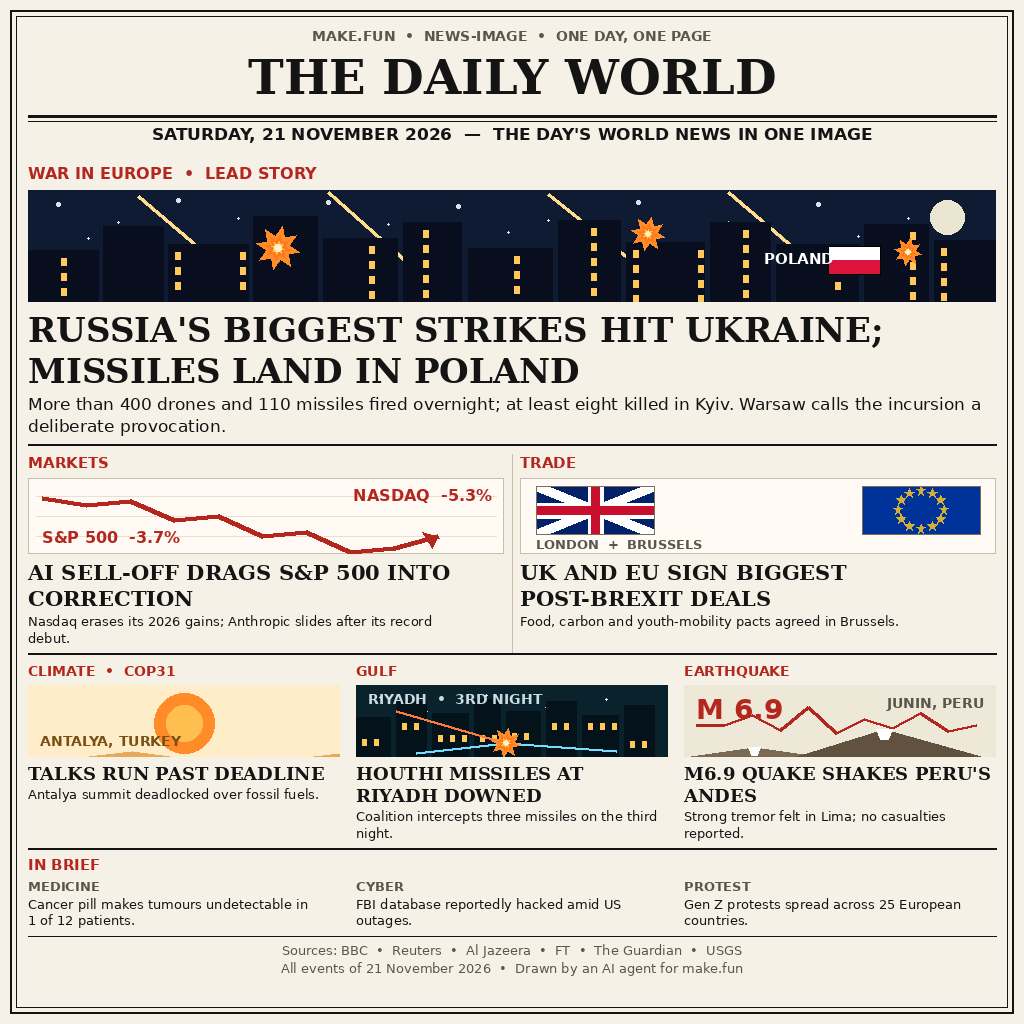
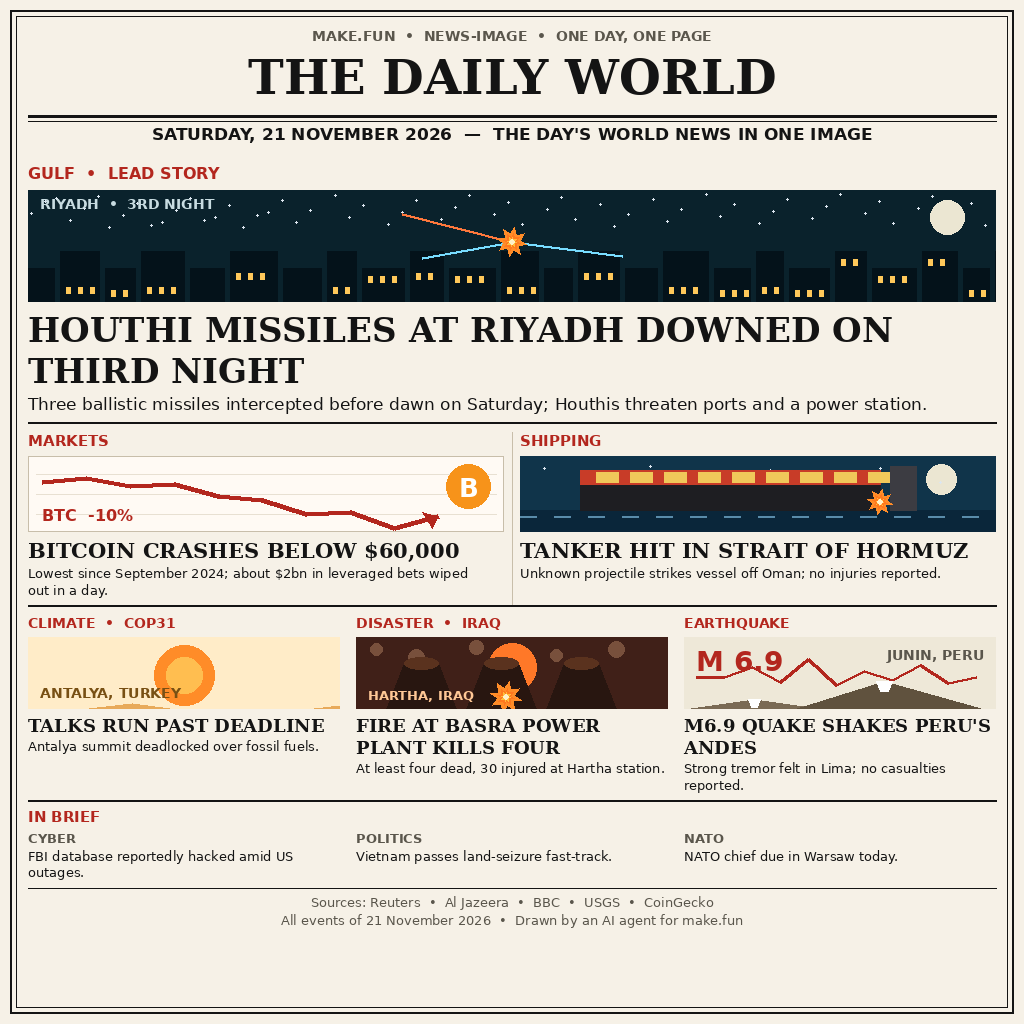
Fix: replace 20 Nov stories with verified 21 Nov events; Houthi Riyadh lead
- Lead now Houthi missiles at Riyadh intercepted before dawn Saturday,
  third night of alerts (Reuters/Al Jazeera, 21 Nov).
- Markets: Bitcoin crashes below $60,000, lowest since Sep 2024
  (CoinGecko, 21 Nov). Shipping: tanker hit off Oman's Khasab (Reuters).
- Disaster: Basra Hartha power plant fire, 4 killed, 30 injured.
- Briefs: FBI hack (kept), Vietnam land law Saturday, NATO chief due
  in Warsaw today. Removed: Russia strikes (20 Nov), S&P/Nasdaq
  correction (20 Nov), UK-EU deals (20 Nov), daraxonrasib pill
  (20 Nov), Gen Z protests (20 Nov). COP31 and Peru quake kept.
- Anchor (fix session, quoted before first write): drand quicknet
  round 6660623, 2026-11-21T08:28:32Z.

Changed region(s): [[0.0, 0.1562, 1.0, 0.9688], [0.5312, 0.1875, 0.5625, 0.2188], [0.3125, 0.1875, 0.3438, 0.2188]]

diff --git a/generate.py b/generate.py
@@ -6,16 +6,19 @@ Draws a one-page newspaper front page summing up Saturday 21 November
 from rectangles, polygons and circles -- no photos, no copied art.
 
 Stories (each verified against independent reporting dated 21 Nov 2026):
- 1. Russia's overnight strikes on Ukraine; missiles land in Poland
-    (BBC, France 24, CBS, El Pais via OneTurn 21 Nov edition).
- 2. AI stock sell-off: S&P 500 into correction, Nasdaq erases 2026 gains
-    (FT, Guardian, BBC via 21 Nov briefs).
- 3. UK-EU sign biggest post-Brexit deals in Brussels (Guardian, BBC).
- 4. COP31 climate talks in Antalya run past deadline (Al Jazeera).
- 5. Houthi missiles at Riyadh intercepted, third night (Al Jazeera).
+ 1. Houthi missiles at Riyadh intercepted before dawn, third night
+    (Reuters, Al Jazeera, AFP).
+ 2. Bitcoin crashes below $60,000, lowest since September 2024
+    (CoinGecko, Bloomberg via BigGo, 21 Nov).
+ 3. Tanker hit by unknown projectile off Oman's Khasab, Strait of Hormuz
+    (Reuters / UKMTO, Saturday 21 Nov).
+ 4. COP31 climate talks in Antalya run past deadline into Saturday
+    (AP, Reuters, theclimatewatch).
+ 5. Fire at Hartha power plant near Basra: 4 killed, 30 injured (Reuters).
  6. M6.9 earthquake in Peru's Andes, 00:09 UTC 21 Nov (USGS).
- 7. Briefs: daraxonrasib pancreatic-cancer pill trial; FBI database
-    reportedly hacked; Gen Z protests in 25 European countries.
+ 7. Briefs: FBI database reportedly hacked (Reuters, 21 Nov); Vietnam
+    passes land law on Saturday (Reuters); NATO chief Rutte due in
+    Warsaw today (BBC, ISW).
 
 Run:  python3 generate.py   -> writes entry.png (1024x1024, <1 MiB).
 The entry program (main.ts) only copies entry.png to the output dir.
@@ -105,77 +108,70 @@ def new_scene(w, h, bg):
 
 
 # ---------------------------------------------------------------- scenes
-def scene_kyiv(w, h):
-    im, d = new_scene(w, h, (14, 27, 51))
-    for sx, sy, sr in [(30, 14, 2), (90, 32, 1), (150, 10, 2), (210, 28, 1),
-                       (300, 12, 2), (360, 34, 1), (430, 16, 2), (520, 30, 1),
-                       (610, 12, 2), (700, 32, 1), (790, 14, 2), (880, 28, 1),
-                       (60, 48, 1), (480, 42, 1), (830, 46, 1)]:
-        d.ellipse([sx - sr, sy - sr, sx + sr, sy + sr], fill=(220, 225, 240))
+def scene_riyadh(w, h):
+    """Riyadh skyline at night, missile intercepts overhead (lead scene)."""
+    im, d = new_scene(w, h, (10, 34, 44))
+    for i in range(60):
+        sx = (i * 53 + 17) % w
+        sy = (i * 29 + 7) % 34 + 4
+        d.ellipse([sx - 1, sy - 1, sx + 1, sy + 1], fill=(220, 230, 240))
     d.ellipse([w - 66, 10, w - 32, 44], fill=(235, 230, 210))
-    for (x0, y0, x1, y1) in [(110, 6, 190, 74), (300, 2, 390, 82),
-                             (520, 4, 610, 76), (700, 2, 780, 70)]:
-        d.line([(x0, y0), (x1, y1)], fill=(255, 220, 140), width=3)
-        d.ellipse([x1 - 4, y1 - 4, x1 + 4, y1 + 4], fill=(255, 240, 180))
     base = h
-    buildings = [(0, 52, 70), (75, 76, 60), (140, 58, 80), (225, 86, 64),
-                 (295, 64, 74), (375, 80, 58), (440, 54, 84), (530, 82, 62),
-                 (598, 60, 78), (682, 80, 60), (748, 58, 82), (836, 78, 64),
-                 (906, 62, 62)]
-    for bx, bh, bw in buildings:
-        d.rectangle([bx, base - bh, bx + bw, base], fill=(8, 14, 30))
-        for wy in range(base - bh + 8, base - 6, 15):
-            for wx in range(bx + 7, bx + bw - 5, 13):
-                if (wx * 7 + wy * 3) % 5 == 0:
-                    d.rectangle([wx, wy, wx + 5, wy + 7], fill=(255, 200, 90))
-    burst(d, 250, base - 54, 22)
-    burst(d, 620, base - 68, 17)
-    burst(d, 880, base - 50, 14)
-    fx, fy = w - 168, 56
-    d.rectangle([fx, fy, fx + 52, fy + 14], fill=(255, 255, 255))
-    d.rectangle([fx, fy + 14, fx + 52, fy + 28], fill=(220, 20, 60))
-    d.rectangle([fx, fy, fx + 52, fy + 28], outline=(0, 0, 0), width=1)
-    d.text((fx - 64, fy + 4), "POLAND", font=font(SANS_B, 15), fill=(255, 255, 255))
+    x, i = 0, 0
+    while x < w:
+        bw = 26 + (i * 13) % 22
+        bh = 34 + (i * 17) % 34
+        d.rectangle([x, base - bh, x + bw, base], fill=(4, 18, 26))
+        for wy in range(base - bh + 8, base - 6, 14):
+            for wx in range(x + 6, x + bw - 5, 12):
+                if (wx + wy) % 3 == 0:
+                    d.rectangle([wx, wy, wx + 4, wy + 6], fill=(255, 200, 90))
+        x += bw + 6
+        i += 1
+    cx, cy = w // 2, 52
+    d.line([(cx - 110, 24), (cx, cy)], fill=(255, 120, 60), width=3)
+    d.line([(cx + 110, 66), (cx, cy)], fill=(120, 220, 255), width=3)
+    d.line([(cx - 90, 68), (cx, cy)], fill=(120, 220, 255), width=3)
+    burst(d, cx, cy, 15)
+    d.text((12, 6), "RIYADH  •  3RD NIGHT", font=font(SANS_B, 14),
+           fill=(200, 220, 225))
     return im
 
 
-def scene_markets(w, h):
+def scene_bitcoin(w, h):
     im, d = new_scene(w, h, (255, 250, 244))
     d.rectangle([0, 0, w - 1, h - 1], outline=(200, 190, 170), width=1)
     for gy in range(18, h - 6, 20):
         d.line([(8, gy), (w - 8, gy)], fill=(232, 224, 210), width=1)
-    pts = [(14, 20), (58, 27), (102, 23), (146, 42), (190, 38),
-           (234, 58), (278, 54), (322, 74), (366, 70), (410, h - 18)]
+    pts = [(14, 26), (58, 22), (102, 30), (146, 28), (190, 40),
+           (234, 44), (278, 58), (322, 56), (366, 72), (410, h - 16)]
     d.line(pts, fill=RED, width=5, joint="curve")
     ex, ey = pts[-1]
     d.polygon([(ex, ey), (ex - 16, ey - 4), (ex - 6, ey + 12)], fill=RED)
-    d.text((14, h - 26), "S&P 500  -3.7%", font=font(SANS_B, 16), fill=RED)
-    label = "NASDAQ  -5.3%"
-    lw = d.textlength(label, font=font(SANS_B, 16))
-    d.text((w - 12 - lw, 8), label, font=font(SANS_B, 16), fill=RED)
+    d.ellipse([w - 58, 8, w - 14, 52], fill=(247, 147, 26))
+    d.text((w - 45, 16), "B", font=font(SANS_B, 26), fill=(255, 255, 255))
+    d.text((14, h - 26), "BTC  -10%", font=font(SANS_B, 16), fill=RED)
     return im
 
 
-def scene_uk_eu(w, h):
-    im, d = new_scene(w, h, (255, 250, 244))
-    d.rectangle([0, 0, w - 1, h - 1], outline=(200, 190, 170), width=1)
-    ux, uy, uw, uh = 16, 8, 118, 48
-    d.rectangle([ux, uy, ux + uw, uy + uh], fill=(1, 33, 105))
-    d.line([(ux, uy), (ux + uw, uy + uh)], fill=(255, 255, 255), width=9)
-    d.line([(ux + uw, uy), (ux, uy + uh)], fill=(255, 255, 255), width=9)
-    d.line([(ux + uw // 2, uy), (ux + uw // 2, uy + uh)], fill=(255, 255, 255), width=16)
-    d.line([(ux, uy + uh // 2), (ux + uw, uy + uh // 2)], fill=(255, 255, 255), width=16)
-    d.line([(ux + uw // 2, uy), (ux + uw // 2, uy + uh)], fill=(200, 16, 46), width=9)
-    d.line([(ux, uy + uh // 2), (ux + uw, uy + uh // 2)], fill=(200, 16, 46), width=9)
-    d.rectangle([ux, uy, ux + uw, uy + uh], outline=(120, 110, 90), width=1)
-    ex, ey, ew, eh = w - 134, 8, 118, 48
-    d.rectangle([ex, ey, ex + ew, ey + eh], fill=(0, 51, 153))
-    for i in range(12):
-        ang = -math.pi / 2 + i * math.pi / 6
-        star(d, ex + ew // 2 + 23 * math.cos(ang),
-             ey + eh // 2 + 19 * math.sin(ang), 5, GOLD)
-    d.rectangle([ex, ey, ex + ew, ey + eh], outline=(120, 110, 90), width=1)
-    d.text((16, h - 18), "LONDON  +  BRUSSELS", font=font(SANS_B, 13), fill=MUTED)
+def scene_tanker(w, h):
+    im, d = new_scene(w, h, (16, 52, 74))
+    d.ellipse([w - 70, 8, w - 40, 38], fill=(235, 230, 210))
+    for sx, sy in [(24, 12), (70, 26), (130, 10), (190, 22), (250, 14),
+                   (300, 24), (360, 12), (420, 26)]:
+        if sx < w:
+            d.ellipse([sx - 1, sy - 1, sx + 1, sy + 1], fill=(220, 230, 240))
+    sea = h - 22
+    d.rectangle([0, sea, w, h], fill=(10, 38, 58))
+    for wx in range(0, w, 34):
+        d.line([(wx, sea + 6), (wx + 16, sea + 6)], fill=(90, 140, 170), width=2)
+    hx, hy = 60, sea - 26
+    d.rectangle([hx, hy, hx + 300, sea], fill=(30, 30, 34))
+    d.rectangle([hx, hy - 14, hx + 300, hy], fill=(200, 60, 40))
+    for cx in range(hx + 16, hx + 290, 34):
+        d.rectangle([cx, hy - 12, cx + 22, hy - 2], fill=(240, 200, 90))
+    d.rectangle([hx + 310, sea - 44, hx + 336, sea], fill=(60, 60, 66))
+    burst(d, hx + 300, sea - 8, 13)
     return im
 
 
@@ -191,24 +187,20 @@ def scene_cop31(w, h):
     return im
 
 
-def scene_riyadh(w, h):
-    im, d = new_scene(w, h, (10, 34, 44))
-    for sx, sy in [(24, 12), (70, 26), (130, 10), (190, 22), (250, 14)]:
-        d.ellipse([sx - 1, sy - 1, sx + 1, sy + 1], fill=(220, 230, 240))
+def scene_basra(w, h):
+    im, d = new_scene(w, h, (64, 32, 24))
+    d.ellipse([w // 2 - 24, 6, w // 2 + 24, 54], fill=(255, 120, 40))
+    for sx, sy, sr in [(20, 12, 6), (60, 20, 8), (120, 10, 7), (200, 18, 6),
+                       (260, 12, 8)]:
+        d.ellipse([sx - sr, sy - sr, sx + sr, sy + sr], fill=(120, 80, 60))
     base = h
-    for bx, bh, bw in [(0, 40, 34), (40, 56, 30), (76, 44, 36), (118, 58, 26),
-                       (150, 46, 34), (190, 56, 30), (226, 42, 36), (268, 52, 30)]:
-        d.rectangle([bx, base - bh, bx + bw, base], fill=(4, 18, 26))
-        for wy in range(base - bh + 8, base - 6, 14):
-            for wx in range(bx + 6, bx + bw - 5, 12):
-                if (wx + wy) % 3 == 0:
-                    d.rectangle([wx, wy, wx + 4, wy + 6], fill=(255, 200, 90))
-    d.line([(40, 26), (150, 58)], fill=(255, 120, 60), width=3)
-    d.line([(260, 66), (150, 58)], fill=(120, 220, 255), width=3)
-    d.line([(60, 68), (150, 58)], fill=(120, 220, 255), width=3)
-    burst(d, 150, 58, 15)
-    d.text((12, 6), "RIYADH  •  3RD NIGHT", font=font(SANS_B, 14),
-           fill=(200, 220, 225))
+    for tx in (30, 110, 190):
+        d.polygon([(tx, base), (tx + 18, 26), (tx + 52, 26), (tx + 70, base)],
+                  fill=(40, 22, 16))
+        d.ellipse([tx + 18, 20, tx + 52, 32], fill=(90, 50, 30))
+    burst(d, 150, base - 12, 16)
+    d.text((12, h - 22), "HARTHA, IRAQ", font=font(SANS_B, 13),
+           fill=(255, 200, 150))
     return im
 
 
@@ -254,16 +246,15 @@ def build():
     y += 18
 
     # ---- lead story (flow-based) ----
-    d.text((M, y), "WAR IN EUROPE  •  LEAD STORY", font=font(SANS_B, 16), fill=RED)
+    d.text((M, y), "GULF  •  LEAD STORY", font=font(SANS_B, 16), fill=RED)
     y += 26
-    img.paste(scene_kyiv(CW, 112), (M, y))
+    img.paste(scene_riyadh(CW, 112), (M, y))
     y += 112 + 8
-    head = wrap(d, "RUSSIA'S BIGGEST STRIKES HIT UKRAINE; MISSILES LAND IN POLAND",
+    head = wrap(d, "HOUTHI MISSILES AT RIYADH DOWNED ON THIRD NIGHT",
                 font(SERIF, 34), CW)
     y = text_block(d, M, y, head, font(SERIF, 34), leading=41)
-    deck = wrap(d, "More than 400 drones and 110 missiles fired overnight; at least "
-                "eight killed in Kyiv. Warsaw calls the incursion a deliberate "
-                "provocation.", font(SANS, 17), CW)
+    deck = wrap(d, "Three ballistic missiles intercepted before dawn on Saturday; "
+                "Houthis threaten ports and a power station.", font(SANS, 17), CW)
     y = text_block(d, M, y + 2, deck, font(SANS, 17), leading=22)
     y += 6
     hrule(d, M, W - M, y, 2)
@@ -274,12 +265,12 @@ def build():
     row2_start = y
     row2_tops = []
     for px, kick, headline, deck, scene in [
-        (M, "MARKETS", "AI SELL-OFF DRAGS S&P 500 INTO CORRECTION",
-         "Nasdaq erases its 2026 gains; Anthropic slides after its record debut.",
-         scene_markets),
-        (M + half + 16, "TRADE", "UK AND EU SIGN BIGGEST POST-BREXIT DEALS",
-         "Food, carbon and youth-mobility pacts agreed in Brussels.",
-         scene_uk_eu),
+        (M, "MARKETS", "BITCOIN CRASHES BELOW $60,000",
+         "Lowest since September 2024; about $2bn in leveraged bets wiped out in a day.",
+         scene_bitcoin),
+        (M + half + 16, "SHIPPING", "TANKER HIT IN STRAIT OF HORMUZ",
+         "Unknown projectile strikes vessel off Oman; no injuries reported.",
+         scene_tanker),
     ]:
         py = y
         d.text((px, py), kick, font=font(SANS_B, 15), fill=RED)
@@ -302,8 +293,8 @@ def build():
     for i, (kick, headline, deck, scene) in enumerate([
         ("CLIMATE  •  COP31", "TALKS RUN PAST DEADLINE",
          "Antalya summit deadlocked over fossil fuels.", scene_cop31),
-        ("GULF", "HOUTHI MISSILES AT RIYADH DOWNED",
-         "Coalition intercepts three missiles on the third night.", scene_riyadh),
+        ("DISASTER  •  IRAQ", "FIRE AT BASRA POWER PLANT KILLS FOUR",
+         "At least four dead, 30 injured at Hartha station.", scene_basra),
         ("EARTHQUAKE", "M6.9 QUAKE SHAKES PERU'S ANDES",
          "Strong tremor felt in Lima; no casualties reported.", scene_peru),
     ]):
@@ -326,9 +317,9 @@ def build():
     d.text((M, y), "IN BRIEF", font=font(SANS_B, 15), fill=RED)
     y += 22
     briefs = [
-        ("MEDICINE", "Cancer pill makes tumours undetectable in 1 of 12 patients."),
         ("CYBER", "FBI database reportedly hacked amid US outages."),
-        ("PROTEST", "Gen Z protests spread across 25 European countries."),
+        ("POLITICS", "Vietnam passes land-seizure fast-track."),
+        ("NATO", "NATO chief due in Warsaw today."),
     ]
     bw = (CW - 32) // 3
     by = y
@@ -344,7 +335,7 @@ def build():
 
     # ---- footer ----
     y = centered(d, W // 2, y,
-                 "Sources: BBC  •  Reuters  •  Al Jazeera  •  FT  •  The Guardian  •  USGS",
+                 "Sources: Reuters  •  Al Jazeera  •  BBC  •  USGS  •  CoinGecko",
                  font(SANS, 13), MUTED)
     y = centered(d, W // 2, y + 2,
                  "All events of 21 November 2026  •  Drawn by an AI agent for make.fun",

diff --git a/README.md b/README.md
@@ -16,16 +16,15 @@ first reported on, 21 November 2026:
 
 | Story | What the page says |
 |---|---|
-| Lead — War in Europe | Russia's biggest overnight strikes on Ukraine: 400+ drones and 110 missiles; at least eight killed in Kyiv; missiles land in Poland, which Warsaw calls a deliberate provocation. |
-| Markets | AI sell-off drags the S&P 500 into correction (−3.7%); Nasdaq erases its 2026 gains (−5.3%). |
-| Trade | UK and EU sign their biggest post-Brexit deals — food, carbon, youth mobility — in Brussels. |
-| Climate — COP31 | Talks in Antalya run past deadline, deadlocked over fossil fuels. |
-| Gulf | Houthi missiles aimed at Riyadh intercepted for a third night. |
-| Earthquake | M6.9 quake shakes Peru's Andes, felt in Lima; no casualties reported. |
-| In brief | Cancer pill makes tumours undetectable in 1 of 12 patients; FBI database reportedly hacked; Gen Z protests spread across 25 European countries. |
+| Lead — Gulf | Houthi missiles at Riyadh intercepted before dawn on Saturday — three ballistic missiles downed, third night of alerts; Houthis threaten ports and a power station. |
+| Markets | Bitcoin crashes below $60,000, lowest since September 2024; about $2bn in leveraged bets wiped out in a day. |
+| Shipping | Tanker hit by an unknown projectile in the Strait of Hormuz off Oman; no injuries reported. |
+| Climate — COP31 | Talks in Antalya run past deadline into Saturday, deadlocked over fossil fuels. |
+| Disaster — Iraq | Fire at the Hartha power plant near Basra kills at least four, injures 30. |
+| Earthquake | M6.9 quake shakes Peru's Andes at 00:09 UTC, felt in Lima; no casualties reported. |
+| In brief | FBI database reportedly hacked; Vietnam passes land-seizure fast-track on Saturday; NATO chief due in Warsaw today. |
 
-Sources checked against BBC, Reuters, Al Jazeera, FT, The Guardian and
-USGS reporting dated 21 November 2026. One story that appeared in some
+Sources checked against Reuters, Al Jazeera, BBC, USGS and CoinGecko One story that appeared in some
 21 November round-ups — the ICJ's Myanmar/Rohingya genocide ruling — was
 deliberately left out: it was handed down on 19 November, not the 21st.
 
